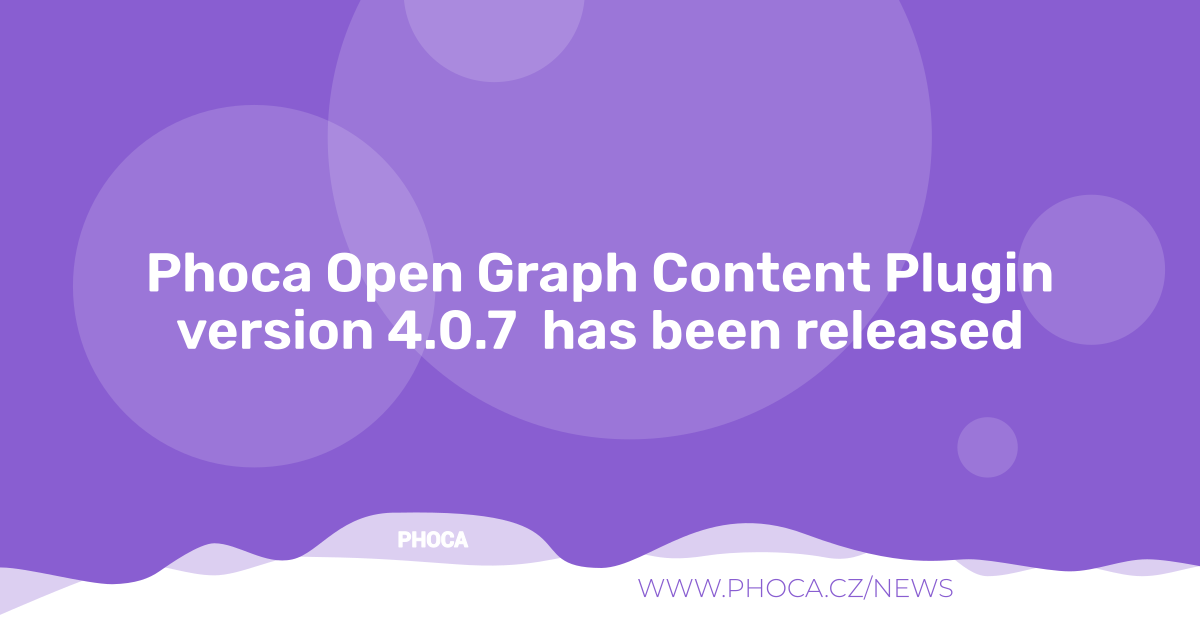
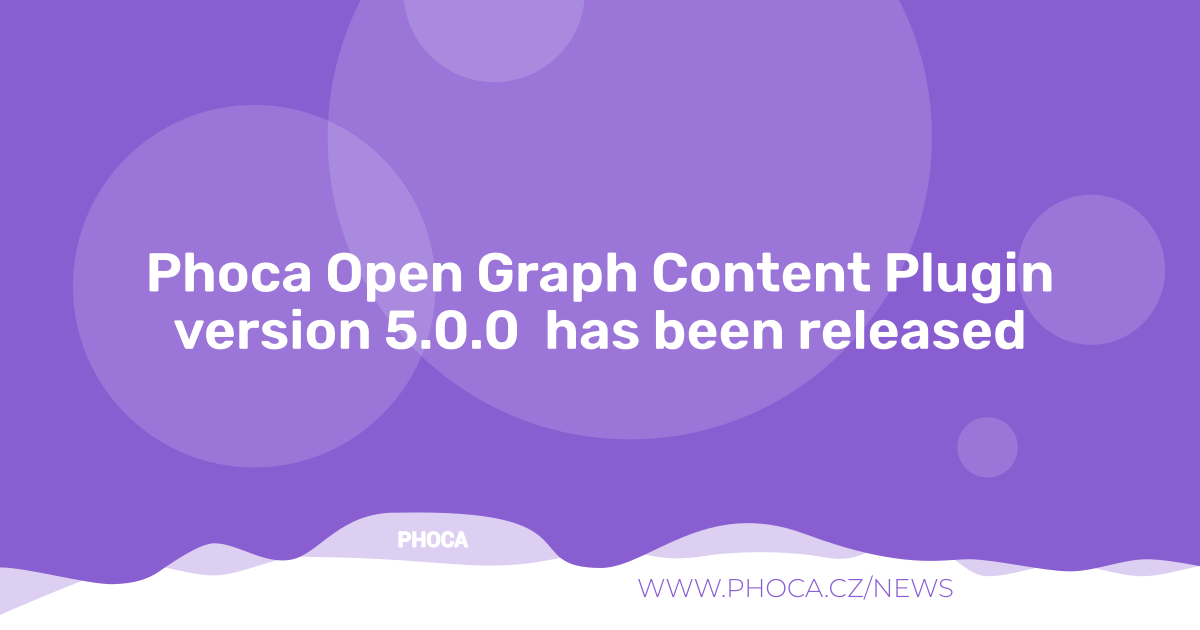
5.0.0

Changed region(s): [[0.1233, 0.4825, 0.8633, 0.573]]

diff --git a/phocaopengraph.php b/phocaopengraph.php
@@ -8,14 +8,17 @@
  */
 
 use Joomla\CMS\Factory;
+use Joomla\CMS\Filesystem\File;
 use Joomla\CMS\HTML\HTMLHelper;
+use Joomla\Registry\Registry;
+use Joomla\CMS\Plugin\CMSPlugin;
 use Joomla\CMS\Uri\Uri;
 
 defined( '_JEXEC' ) or die( 'Restricted access' );
 jimport( 'joomla.plugin.plugin' );
 
 
-class plgContentPhocaOpenGraph extends JPlugin
+class plgContentPhocaOpenGraph extends CMSPlugin
 {
 	public $pluginNr 		= 0;
 	public $twitterEnable 	= 0;
@@ -62,15 +65,15 @@ class plgContentPhocaOpenGraph extends JPlugin
 		if ($absU == 1) {
 			$linkImg = $image;
 		} else {
-			$linkImg = JURI::base(false).$image;
+			$linkImg = Uri::base(false).$image;
 
 			if ($image[0] == '/') {
-				$myURI = new \Joomla\Uri\Uri(JURI::base(false));
+				$myURI = new Uri(Uri::base(false));
 				$myURI->setPath($image);
 				$linkImg = $myURI->toString();
 
 			} else {
-				$linkImg = JURI::base(false).$image;
+				$linkImg = Uri::base(false).$image;
 			}
 
 			if ($change_svg_to_png == 1) {
@@ -88,6 +91,8 @@ class plgContentPhocaOpenGraph extends JPlugin
 
 		$document 				= Factory::getDocument();
 
+		$display_itemprop_image 				= $this->params->get('display_itemprop_image', 1);
+
 		// Encoded html tags can still be rendered, decode and strip tags first.
 		$value                  = strip_tags(html_entity_decode($value));
 
@@ -97,7 +102,7 @@ class plgContentPhocaOpenGraph extends JPlugin
 		} else {
 
 			$attributes = '';
-			if ($name == 'og:image') {
+			if ($name == 'og:image' && $display_itemprop_image == 1) {
 				$attributes = ' itemprop="image"';
 			}
 			$document->addCustomTag('<meta property="'.htmlspecialchars($name, ENT_COMPAT, 'UTF-8').'"'.$attributes.' content="' . htmlspecialchars($value, ENT_COMPAT, 'UTF-8') . '" />');
@@ -285,7 +290,7 @@ class plgContentPhocaOpenGraph extends JPlugin
 				$cItem = $db->loadObjectList();
 
 				if (!empty($cItem[0]->params)) {
-					$registry = new JRegistry;
+					$registry = new Registry;
 					$registry->loadString($cItem[0]->params);
 					$pC = $registry->toArray();
 					if (isset($pC['image']) && $pC['image'] != '') {
@@ -414,7 +419,7 @@ class plgContentPhocaOpenGraph extends JPlugin
 			preg_match('/< *img[^>]*src *= *["\']?([^"\']*)/i', $content, $src);
 			if (isset($src[1]) && $src[1] != '') {
 				$this->renderTag('og:image', $this->setImage($this->realCleanImageURL($src[1])), $type);
-				//$this->renderTag('og:image', JURI::base(false).$src[1], $type);
+				//$this->renderTag('og:image', Uri::base(false).$src[1], $type);
 				$imgSet = 1;
 			}
 
@@ -425,11 +430,11 @@ class plgContentPhocaOpenGraph extends JPlugin
 					jimport( 'joomla.filesystem.file' );
 					$imgPath	= '';
 					$path 		= JPATH_ROOT . '/images/phocaopengraph/';
-					if (JFile::exists($path . '/' . (int)$row->id.'.jpg')) {
+					if (File::exists($path . '/' . (int)$row->id.'.jpg')) {
 						$imgPath = 'images/phocaopengraph/'.(int)$row->id.'.jpg';
-					} else if (JFile::exists($path . '/' . (int)$row->id.'.png')) {
+					} else if (File::exists($path . '/' . (int)$row->id.'.png')) {
 						$imgPath = 'images/phocaopengraph/'.(int)$row->id.'.png';
-					} else if (JFile::exists($path . '/' . (int)$row->id.'.gif')) {
+					} else if (File::exists($path . '/' . (int)$row->id.'.gif')) {
 						$imgPath = 'images/phocaopengraph/'.(int)$row->id.'.gif';
 					}
 

diff --git a/models/fields/phocaoghead.php b/models/fields/phocaoghead.php
@@ -8,12 +8,14 @@
  */
 
 use Joomla\CMS\Factory;
+use Joomla\CMS\Form\FormField;
+use Joomla\CMS\Language\Text;
 
 defined('JPATH_BASE') or die;
 jimport('joomla.html.html');
 jimport('joomla.form.formfield');
 
-class JFormFieldPhocaOGHead extends JFormField
+class JFormFieldPhocaOGHead extends FormField
 {
 	protected $type = 'PhocaOGHead';
 
@@ -39,12 +41,12 @@ class JFormFieldPhocaOGHead extends JFormField
 				.'<table border="0"><tr>'
 				.'<td valign="middle" align="center">'. $image.'</td>'
 				.'<td valign="middle" align="center">'
-				.'<strong>'. JText::_($this->element['default']) . '</strong></td>'
+				.'<strong>'. Text::_($this->element['default']) . '</strong></td>'
 				.'</tr></table>'
 				.'</div>';
 			} else {
 				return '<div class="ph-options-head">'
-				.'<strong>'. JText::_($this->element['default']) . '</strong>'
+				.'<strong>'. Text::_($this->element['default']) . '</strong>'
 				.'</div>';
 			}
 		} else {

diff --git a/README.MD b/README.MD
@@ -58,6 +58,10 @@ Phoca Open Graph Content Plugin is a Joomla! CMS Plugin. It adds open graph info
 
 4.0.7
 
+## Version (Joomla! 5.x)
+
+5.0.0
+
 
 
 ## License
